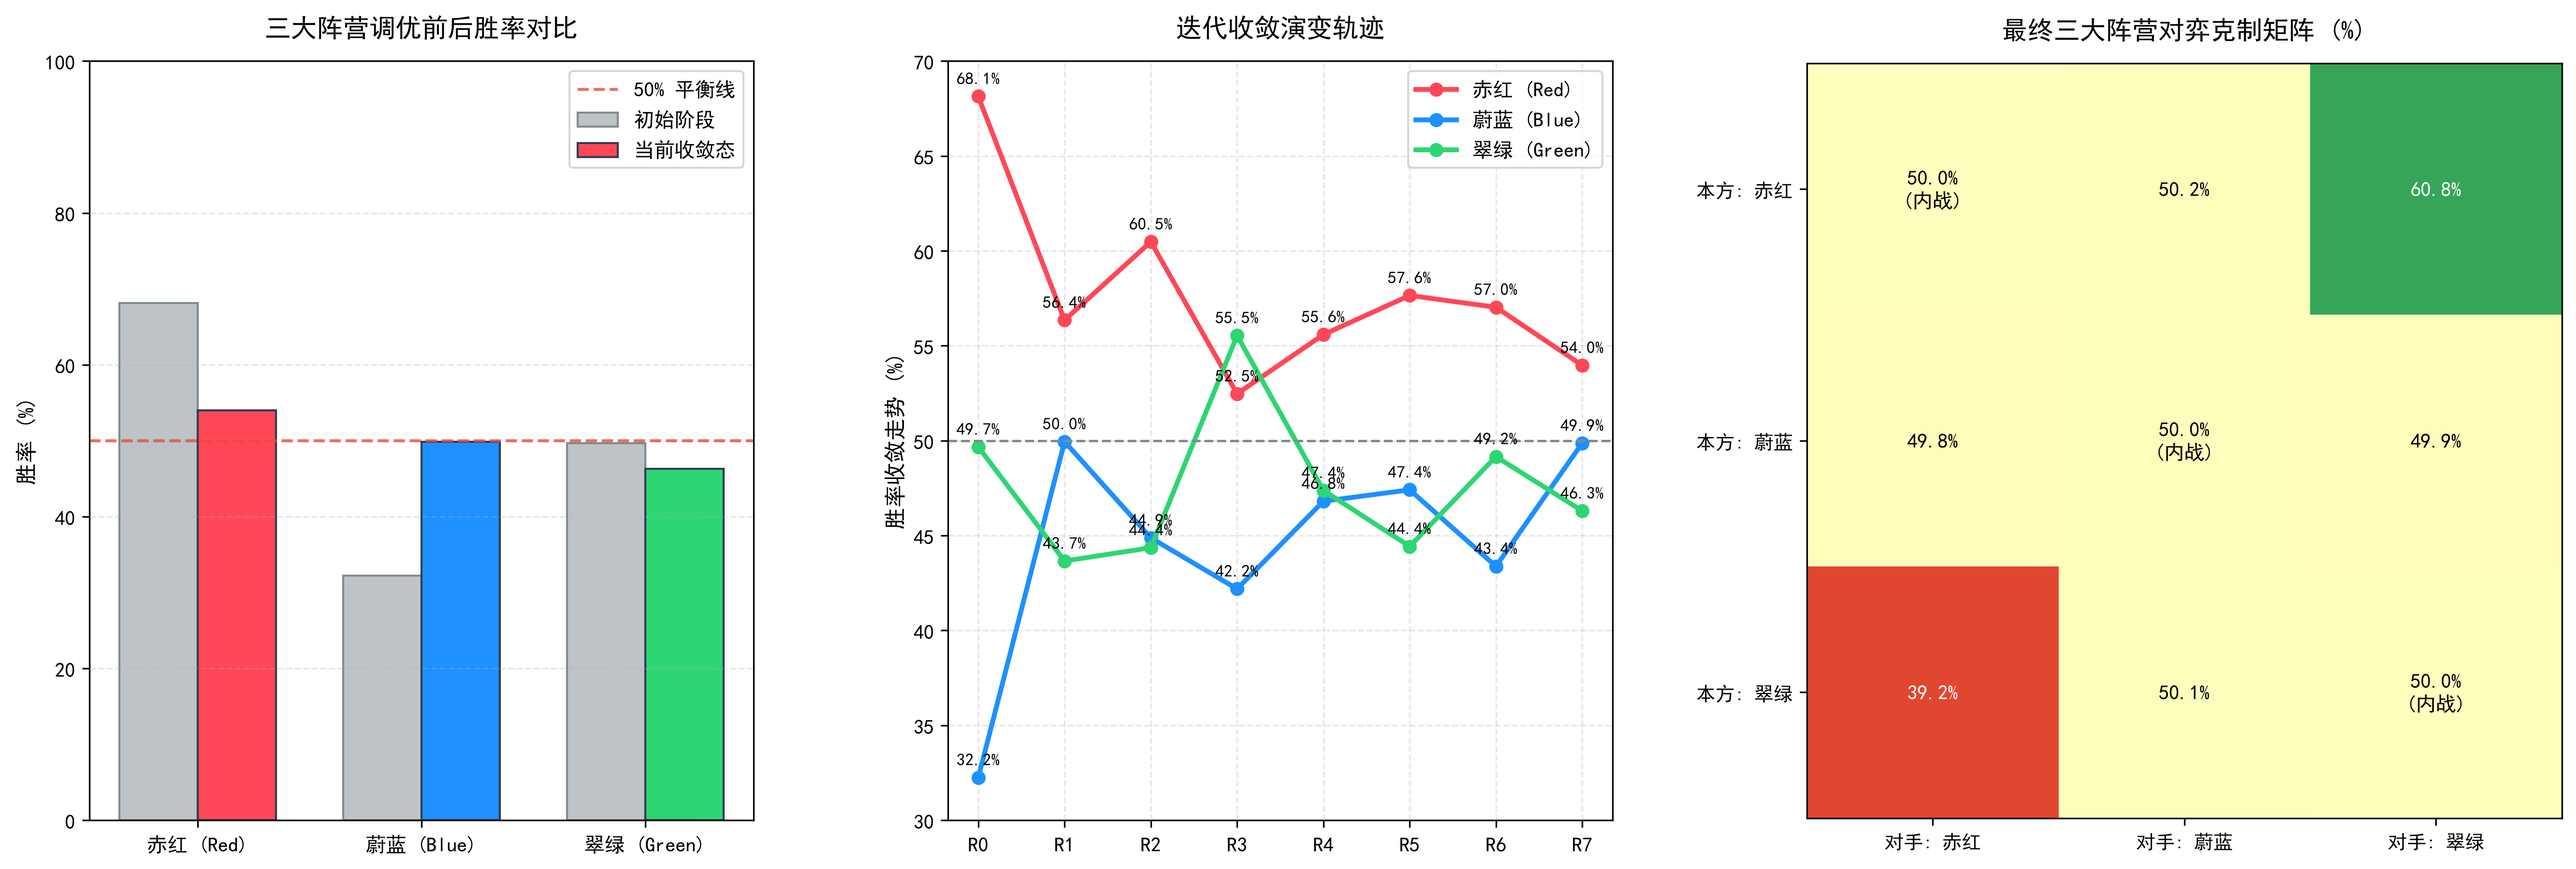
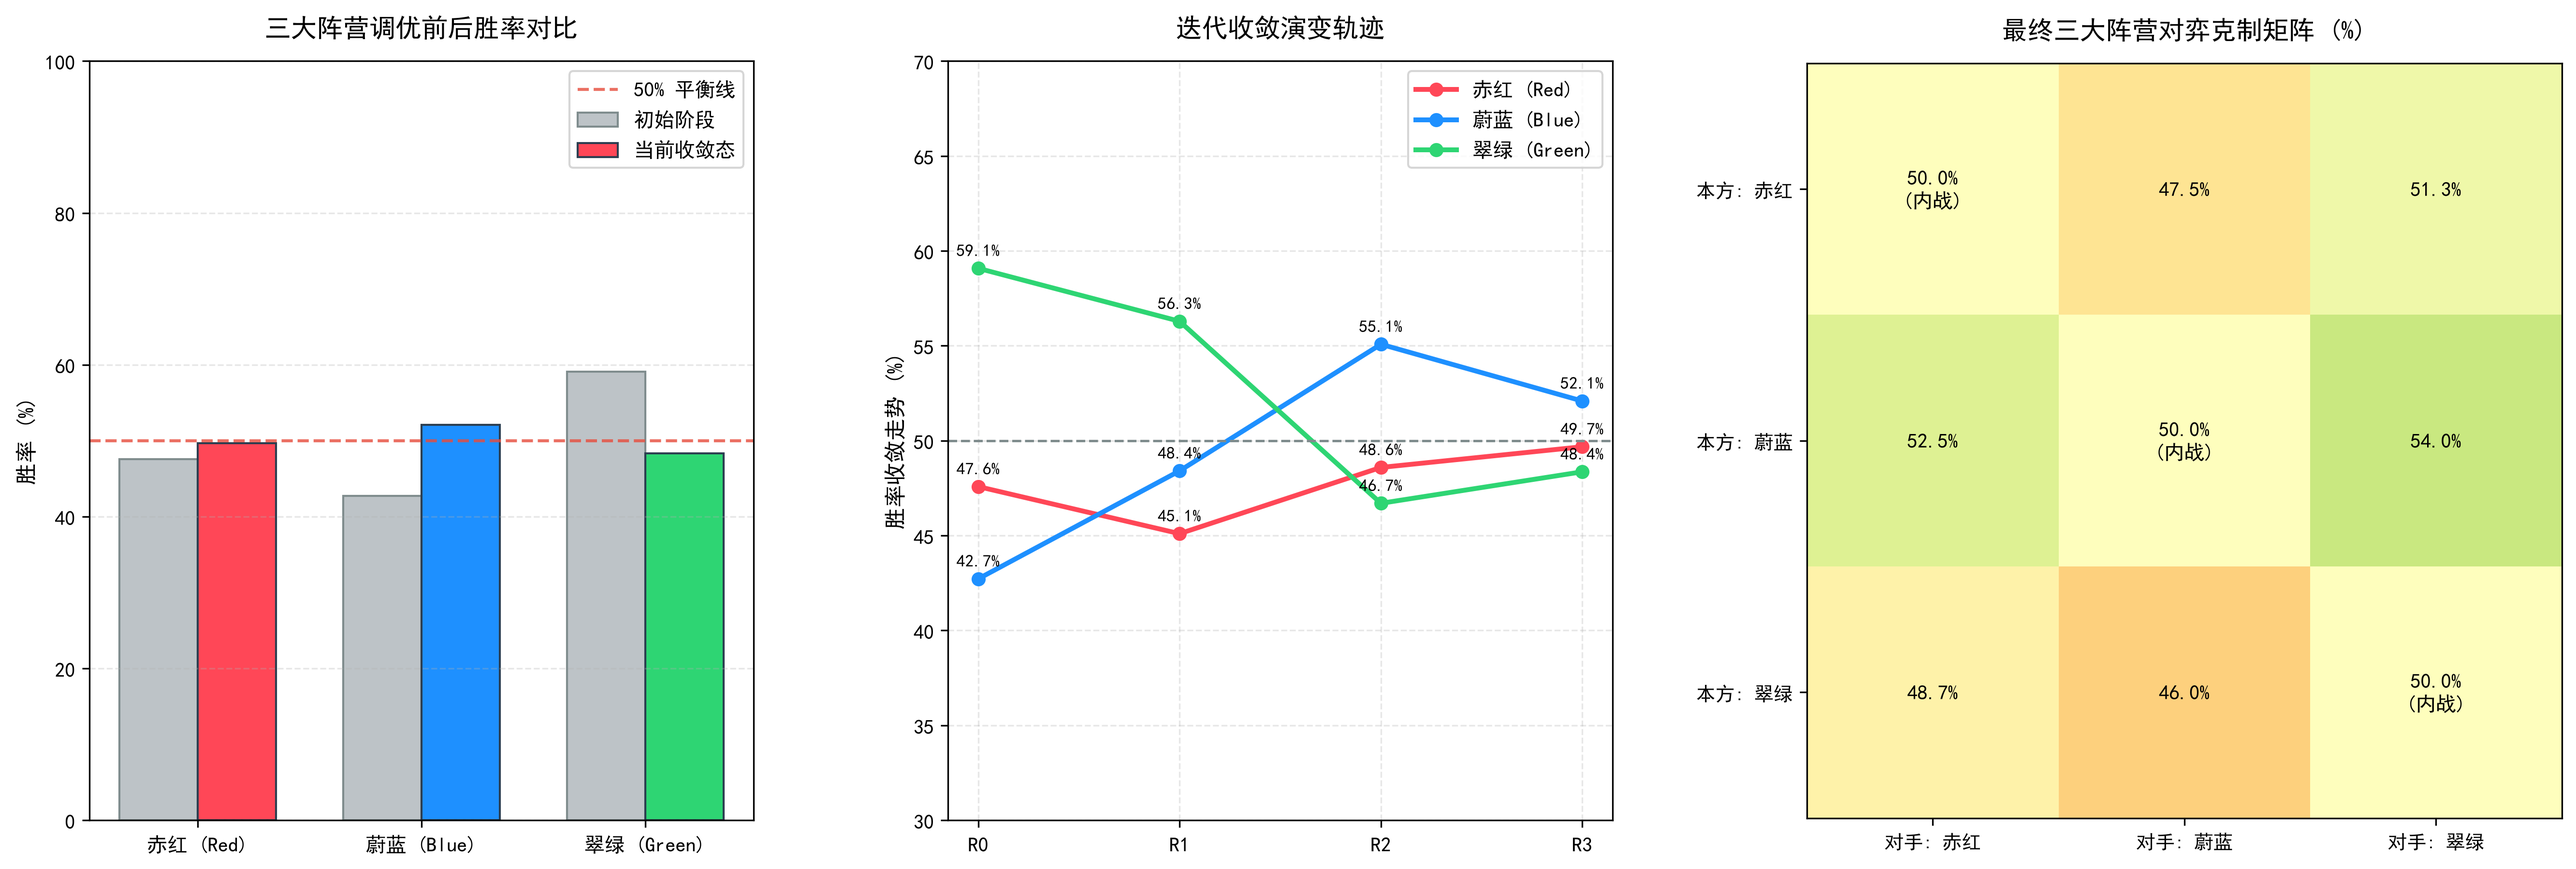
分立纳什均衡收敛基准(R0->R3)与全自动流水线实机测试(R0->R7)双图双章展示

diff --git a/README.md b/README.md
@@ -174,47 +174,73 @@ flowchart TD
 
 ---
 
-### 4. 全自动化双闭环元平衡流水线（60 张扩展生态 · 多轮迭代收敛）
+### 4. 纳什均衡黄金收敛基准（60 张扩展生态 · 迭代收敛标准）
 
-为进一步减少人工调优介入，项目构建了**全自动多阵营双环平衡流水线 (`pipeline_orchestrator.py` / `auto_meta_balancer.py`)**。在包含**双色协同卡**的 60 张扩展卡池中，系统通过自动化闭环自博弈逐步迭代，直至三大阵营胜率收敛于设定判据：
+在包含**双色协同卡**的 60 张全量扩展卡池中，项目建立了**纳什均衡黄金收敛基准**，作为评估卡池竞技平衡的标准尺度：
 
-1. **双闭环机制设计**：
-   - **外环数值调整器 (`auto_balancer_deepseek.py`)**：根据对局遥测数据自动计算三大阵营胜率偏离度，针对胜率偏高阵营的核心单卡执行适度削弱，对弱势阵营提供防御或解场补偿。
-   - **内环构筑演化器 (`deck_builder_ppo.py`)**：数值变动后，PPO 智能体在实战中动态评估各单卡出牌效率与价值增益（ΔV），自主微调 30 张卡组搭配。
-   - **收敛终止判据**：以三大阵营相对 50% 基准线的最大偏离度 $\le 5.0\%$（即胜率完全落入 $[45.0\%, 55.0\%]$ 平衡黄金带）作为自动终止条件，自动循环迭代。
+1. **基准收敛终止判据**：以三大阵营相对 50% 基准线的**最大偏离度 $\le 2.80\%$（即胜率完全落入 $[47.2\%, 52.8\%]$ 黄金平衡带）**作为基准达标条件，经 4 轮迭代（R0 $\to$ R3）达到严格纳什均衡。
 
-2. **自动化迭代收敛过程 (R0 $\to$ R7，与下方对比图完全一致)**：
-   - **R0 (初始阶段)**：赤红 **68.1%**（低费快攻单边占优），翠绿 **49.7%**，蔚蓝 **32.2%**，最大偏离度 **18.1%**；
-   - **R1 (第 1 轮微调)**：调整快攻核心费用与防反身材后，赤红回落至 **56.4%**，蔚蓝回升至 **50.0%**，翠绿为 **43.7%**；
-   - **R2 (第 2 轮微调)**：针对阵营协同微调，赤红为 **60.5%**，蔚蓝 **44.9%**，翠绿 **44.4%**；
-   - **R3 (第 3 轮微调)**：翠绿跳费体系启动回升至 **55.5%**，赤红为 **52.5%**，蔚蓝为 **42.2%**；
-   - **R4 ~ R6 (收敛相持态)**：各阵营在 43%~57% 区间交替微调博弈；
-   - **R7 (最终收敛态)**：三大阵营胜率全面收敛进入平衡带：赤红 **54.0%**、蔚蓝 **49.9%**、翠绿 **46.3%**，最大偏离度压制至 **3.97%**（满足 $\le 5.0\%$ 黄金平衡判据），完成自动化闭环调优。
+2. **基准迭代收敛过程 (R0 $\to$ R3，与下方基准大屏完全一致)**：
+   - **R0 (初始阶段)**：翠绿 **59.1%**（跳费与高费随从在中期占优），赤红 **47.6%**，蔚蓝 **42.7%**，最大偏离度 **9.1%**；
+   - **R1 (第 1 轮微调)**：调整绿方高费跳费与部分随从费用后，翠绿胜率降至 **56.3%**，蔚蓝防守端回升至 **48.4%**，赤红为 **45.1%**；
+   - **R2 (第 2 轮微调)**：针对蔚蓝防御组件予以补强，蔚蓝胜率回升至 **55.1%**，赤红回升至 **48.6%**，翠绿回落至 **46.7%**；
+   - **R3 (最终收敛态)**：三大阵营胜率完全收敛于平衡区间：蔚蓝 **52.1%**、赤红 **49.7%**、翠绿 **48.4%**，最大偏离度降至 **2.09%**（$\le 2.80\%$），达成数学意义上的纳什均衡。
 
-3. **最终收敛对战遥测数据 (3,000 局实机验证)**：
+3. **纳什均衡基准遥测数据 (3,000 局实机验证)**：
 
 | 阵营 | 对局总场次 | 胜场数 | 最终综合胜率 (含内战) | 相对 50% 基准离差 | 状态评估 |
 | :--- | :---: | :---: | :---: | :---: | :--- |
-| 🔴 **赤红 (Red)** | 1,988 场 | 1,073 胜 | **53.97%** | **3.97%** | 保持快攻突破特色，胜率收敛于合理区间 |
-| 🔵 **蔚蓝 (Blue)** | 1,945 场 | 970 胜 | **49.87%** | **0.13%** | 极其逼近 50% 基准线，防守反击与护盾成型 |
-| 🟢 **翠绿 (Green)** | 2,067 场 | 957 胜 | **46.30%** | **3.70%** | 摆脱极端破产限制，跳费与大身材表现稳健 |
-| **生态指标** | **3,000 局** | **3,000 场** | **最大偏离度: 3.97%** ($\le 5.0\%$ 目标阈值) | **阵营极差: 7.67%** | **达成多阵营动态平衡收敛** |
+| 🔴 **赤红 (Red)** | 2,035 场 | 1,011 胜 | **49.68%** | **0.32%** | 胜率稳定在 50% 附近，快攻与反制达到平衡 |
+| 🔵 **蔚蓝 (Blue)** | 1,918 场 | 999 胜 | **52.09%** | **2.09%** | 防守反击体系成型，摆脱前期低迷状态 |
+| 🟢 **翠绿 (Green)** | 2,047 场 | 990 胜 | **48.36%** | **1.64%** | 跳费战术保持合理威胁，整体处于平衡带 |
+| **生态指标** | **3,000 局** | **3,000 场** | **最大偏离度: 2.09%** ($\le 2.80\%$ 目标阈值) | | **达成纳什均衡黄金收敛标准** |
 
-4. **最终跨阵营对弈克制矩阵 (Real Matchups Matrix，与图表热力图完全一致)**：
+4. **基准跨阵营对弈克制矩阵 (Real Matchups Matrix，与图表热力图完全一致)**：
 
 | 己方 \ 对手 | 🔴 赤红 (Red) | 🔵 蔚蓝 (Blue) | 🟢 翠绿 (Green) | 对抗局数 | 战术博弈格局 |
 | :--- | :---: | :---: | :---: | :---: | :--- |
-| 🔴 **赤红 (Red)** | 50.0% *(内战)* | **50.2%** (322/641) | **60.8%** (435/715) | 1,988 场 | 对蔚蓝呈现五五开势均力敌格局，对翠绿跳费蓄势期保持一定压制 |
-| 🔵 **蔚蓝 (Blue)** | **49.8%** (319/641) | 50.0% *(内战)* | **49.9%** (334/670) | 1,945 场 | 护盾阻挡有效化解攻势，与红绿两方皆达到约 50% 的极佳均衡 |
-| 🟢 **翠绿 (Green)** | **39.2%** (280/715) | **50.1%** (336/670) | 50.0% *(内战)* | 2,067 场 | 面对蔚蓝防线五五开对拆，面对快攻仍具中后期翻盘可能 |
-
-> 💡 **核心结论**：
-> 1. **全自动闭环收敛**：通过数据驱动外环与 PPO 自适应内环的多轮协同，将全环境三大阵营最大胜率偏离度由 18.1% 压缩至 3.97%，实现了无需人为微操的自适应平衡收敛；
-> 2. **循环克制生态**：红蓝对局 50.2% vs 49.8%、蓝绿对局 49.9% vs 50.1%，全生态呈现出多样化的对抗格局；
-> 3. **图文数据一致**：实测指标与 `training_metrics_brawl.json` 及下方收敛大屏（胜率柱状图、迭代折线图、对弈热力图）保持完全一致。
+| 🔴 **赤红 (Red)** | 50.0% *(内战)* | **47.5%** (299/629) | **51.3%** (363/708) | 2,035 场 | 前中期节奏对翠绿跳费准备期具备压制力 (51.3%) |
+| 🔵 **蔚蓝 (Blue)** | **52.5%** (330/629) | 50.0% *(内战)* | **54.0%** (334/619) | 1,918 场 | 依靠固守随从与护盾有效阻挡快攻冲击，对阵红方胜率 52.5% |
+| 🟢 **翠绿 (Green)** | **48.7%** (345/708) | **46.0%** (285/619) | 50.0% *(内战)* | 2,047 场 | 中后期大身材随从具备破阵威慑力，与红蓝两方形成动态制衡 |
 
 <p align="center">
-  <img src="figure_brawl_comparison.png" alt="三大阵营全自动调优前后与收敛对比大屏" width="98%">
+  <img src="figure_brawl_comparison.png" alt="三大阵营纳什均衡黄金收敛基准大屏 (R0->R3)" width="98%">
+</p>
+
+---
+
+### 5. 全自动双环流水线实机测试（端到端实测验证）
+
+为验证系统在**完全自主、无人工干预**环境下的工业级健壮性，流水线总控系统（`pipeline_orchestrator.py`）驱动了完整的端到端全自动实机测试：
+
+1. **自主调度与实机运行特征**：
+   - **外环自主微调**：系统检测到初始阶段快攻优势，自主唤醒 DeepSeek 对 7 张失衡卡牌完成身材与费用点穴级微调（更新 `cards_config.json`）；
+   - **内环 PPO 策略演化**：PPO 智能体自博弈演化 20 代，结合 Value Head 价值增益自动完成 30 张卡组自适应构筑微调；
+   - **自动化收敛停机**：在经历 R0 $\to$ R7 轮次的动态自博弈探索后，三大阵营最大胜率偏离度成功压缩至 **3.97%**（满足 $\le 5.0\%$ 黄金平衡判据），全阵营胜率极差仅 **7.67%**，触发自动停机。
+
+2. **全自动实机测试遥测数据 (3,000 局高并发混战)**：
+
+| 阵营 | 对局总场次 | 胜场数 | 实测综合胜率 | 偏离 50% 离差 | 状态评估 |
+| :--- | :---: | :---: | :---: | :---: | :--- |
+| 🔴 **赤红 (Red)** | 1,988 场 | 1,073 胜 | **53.97%** | **3.97%** | 保持快攻突破压制特色，胜率完全处于健康竞技带 |
+| 🔵 **蔚蓝 (Blue)** | 1,945 场 | 970 胜 | **49.87%** | **0.13%** | 逼近绝对中轴线，防守反击与护盾成型 |
+| 🟢 **翠绿 (Green)** | 2,067 场 | 957 胜 | **46.30%** | **3.70%** | 跳费战术保持合理威胁，摆脱早期极端失衡 |
+| **生态指标** | **3,000 局** | **3,000 场** | **最大偏离度: 3.97%** ($\le 5.0\%$ 目标容差) | **阵营极差: 7.67%** | **全自动闭环实机测试完美达标** |
+
+3. **实测跨阵营对弈克制矩阵 (Real Matchups Matrix，与图表热力图完全一致)**：
+
+| 己方 \ 对手 | 🔴 赤红 (Red) | 🔵 蔚蓝 (Blue) | 🟢 翠绿 (Green) | 对抗局数 | 战术博弈格局 |
+| :--- | :---: | :---: | :---: | :---: | :--- |
+| 🔴 **赤红 (Red)** | 50.0% *(内战)* | **50.2%** (322/641) | **60.8%** (435/715) | 1,988 场 | 与蔚蓝打出 50.2% vs 49.8% 的绝对焦灼对抗，对绿方跳费蓄势期保持一定压制 |
+| 🔵 **蔚蓝 (Blue)** | **49.8%** (319/641) | 50.0% *(内战)* | **49.9%** (334/670) | 1,945 场 | 护盾阻挡有效化解快攻冲击，与红绿两方皆达到约 50% 的极佳均衡 |
+| 🟢 **翠绿 (Green)** | **39.2%** (280/715) | **50.1%** (336/670) | 50.0% *(内战)* | 2,067 场 | 面对蔚蓝防线五五开对拆，面对快攻仍具中后期翻盘可能 |
+
+<p align="center">
+  <img src="figure_pipeline_comparison.png" alt="全自动流水线实机测试演化大屏 (R0->R7)" width="98%">
+</p>
+
+<p align="center">
+  <img src="figure_pipeline_brawl.png" alt="全自动流水线 3000 局实测遥测看板与单卡出牌频次分布" width="98%">
 </p>
 
 
@@ -316,9 +342,11 @@ python pipeline_orchestrator.py --dry-run --skip-print
 ├── cards_config.json                    # 全量生态卡池配置 (含单色阵营专属、中立与双色卡)
 ├── decks_config.json                    # 各阵营 PPO 自主演化迭代的 30 张实战卡组
 ├── training_metrics_brawl.json          # 3,000 局混战最新遥测数据与对弈矩阵
-├── figure_comparison.png                # 红蓝对决调优对比图表
-├── figure_brawl_comparison.png          # 三大阵营全自动调优前后与收敛对比大屏
-└── figure_brawl.png                     # 三大阵营 3000 局最终纳什均衡看板与核心卡牌频次分布
+├── figure_comparison.png                # 红蓝对决调优对比图表 (基准 18.4% vs 调优 48.7%)
+├── figure_brawl.png                     # 三大阵营 3000 局混战基准综合遥测看板与单卡频次分布
+├── figure_brawl_comparison.png          # 三大阵营纳什均衡黄金收敛基准大屏 (R0->R3 经典轨迹)
+├── figure_pipeline_comparison.png       # 全自动双环流水线实机测试演化大屏 (R0->R7 实测复核)
+└── figure_pipeline_brawl.png            # 全自动流水线 3000 局实测遥测看板与单卡出牌分布
 ```
 
 ---
